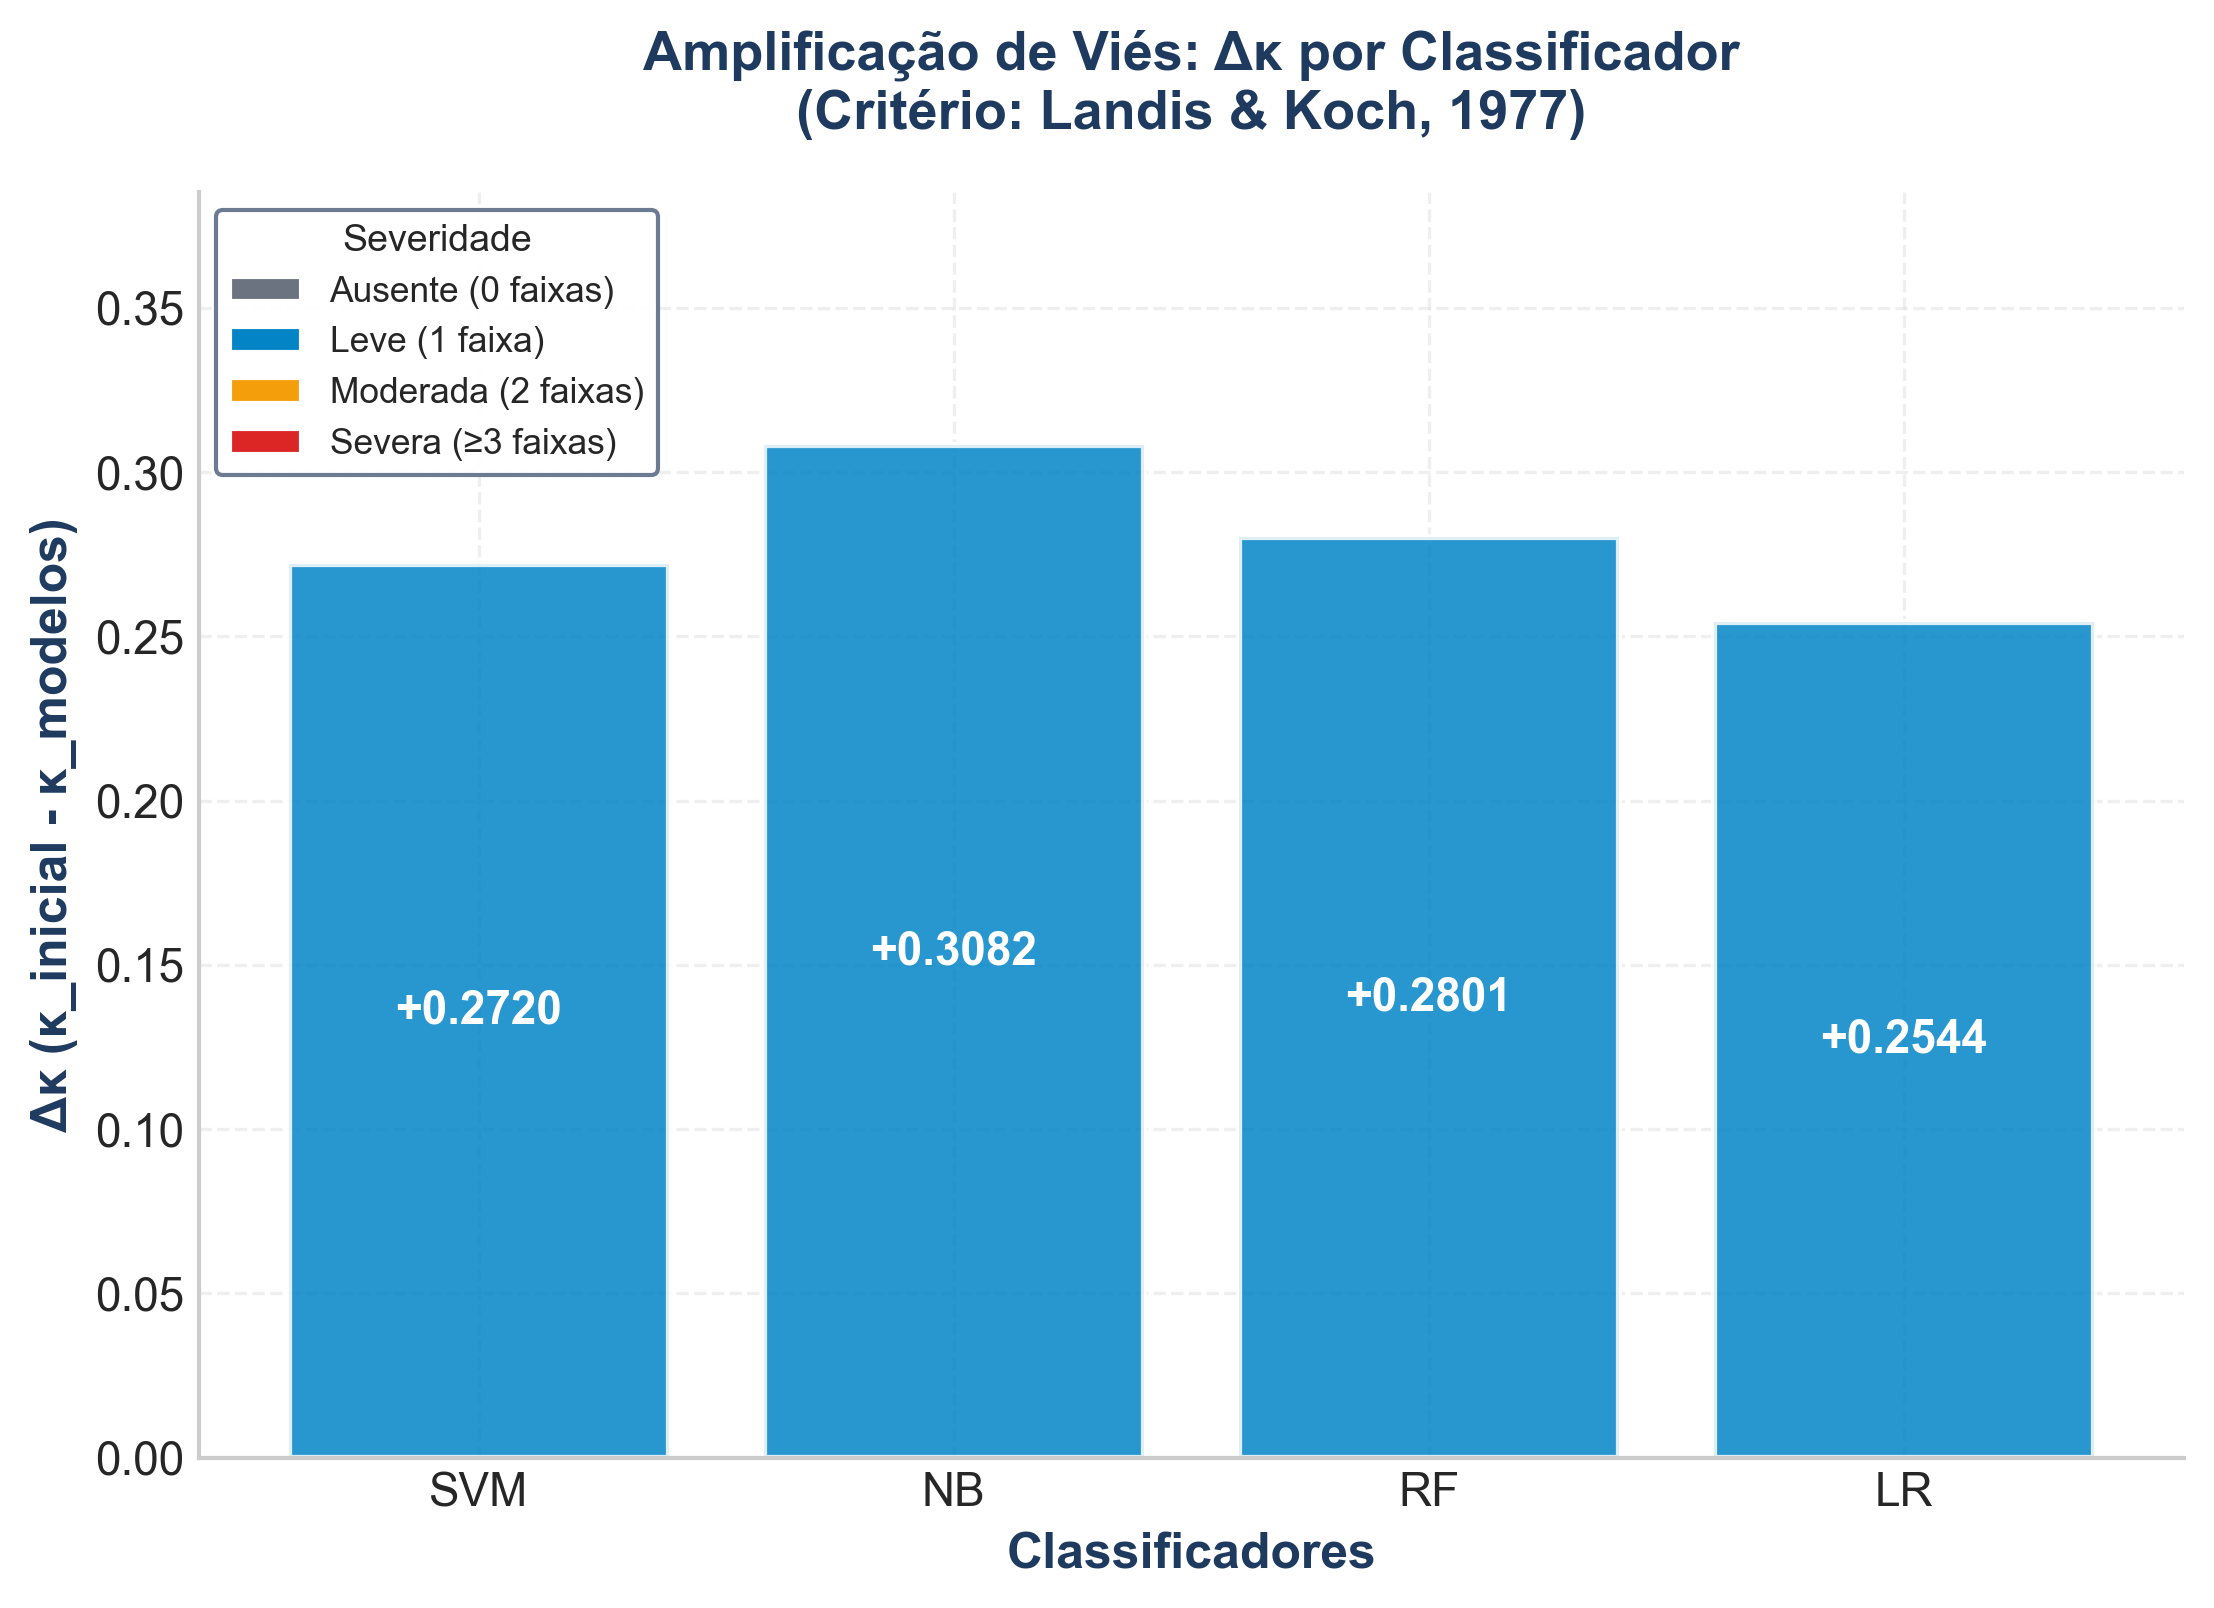
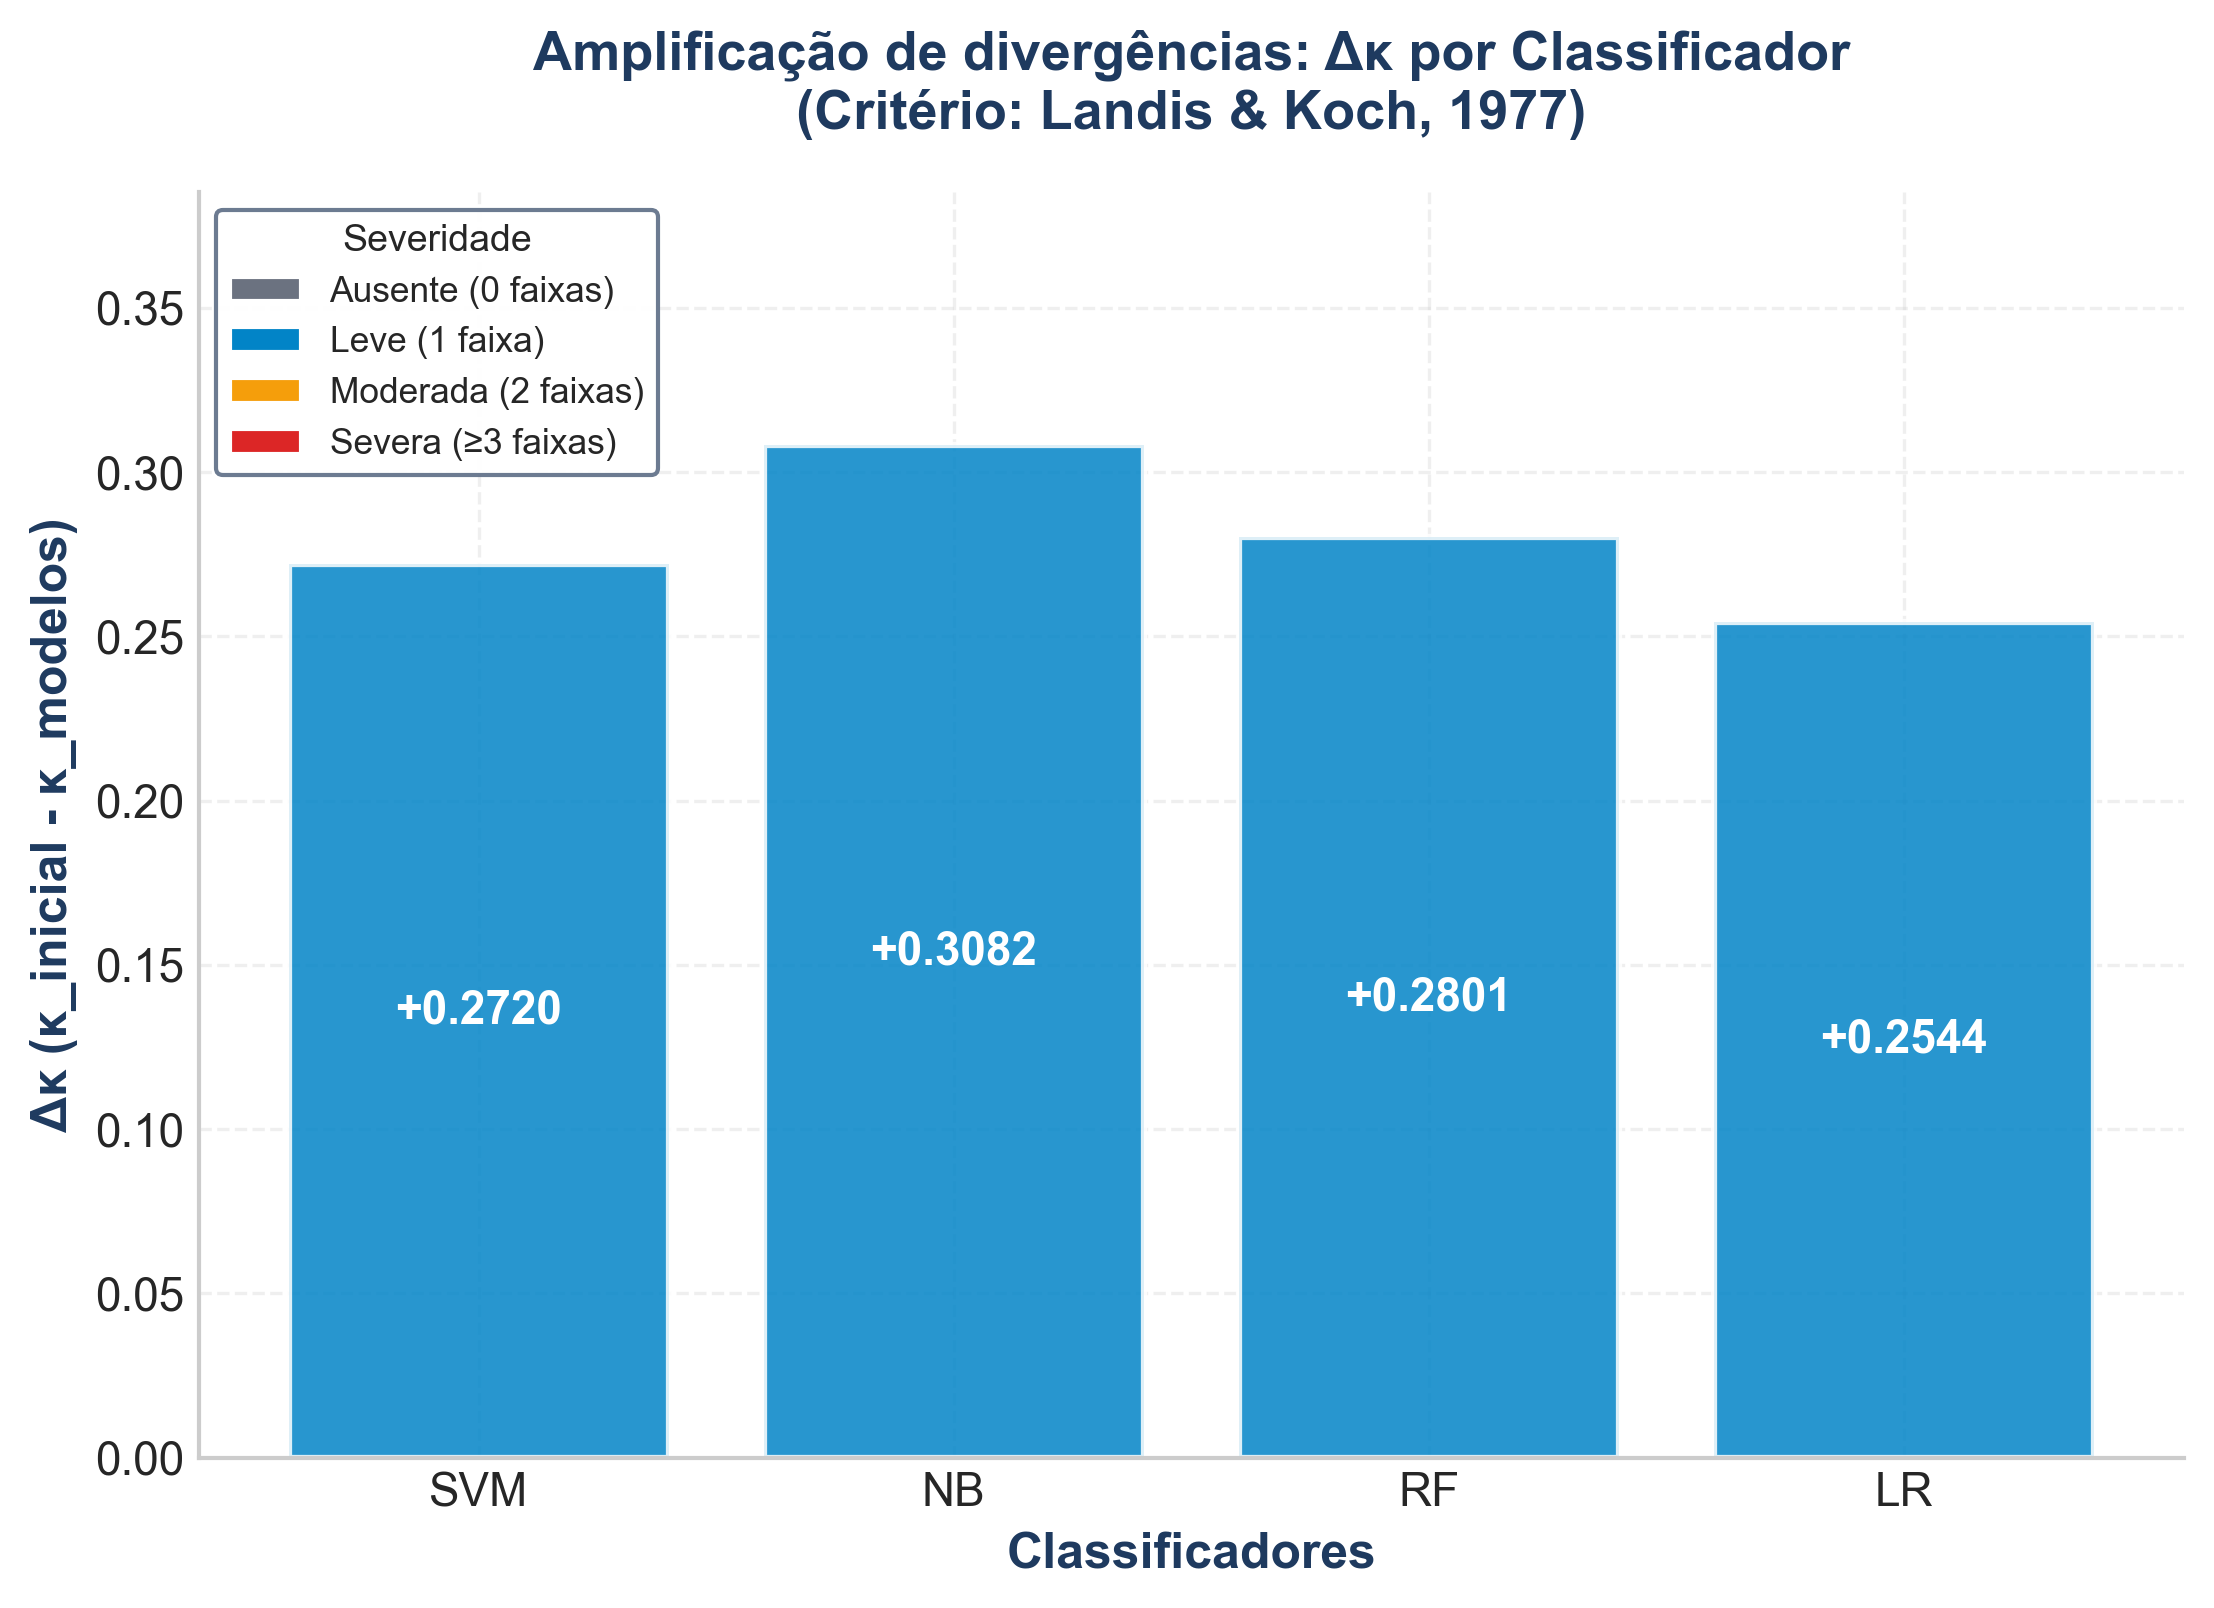
Q3.0

Changed region(s): [[0.2493, 0.0, 0.8415, 0.0622]]

diff --git a/data/resultados_empiricos/insights_estatisticos_fase2.md b/data/resultados_empiricos/insights_estatisticos_fase2.md
@@ -1,6 +1,6 @@
 # Principais Insights Estatísticos — MADA Fase 2
 
-**Data de geração:** 08/04/2026 13:44:34
+**Data de geração:** 07/06/2026 16:32:36
 
 ## 1) Baseline entre anotadores
 - **Cohen's Kappa inicial:** `0.7664`
